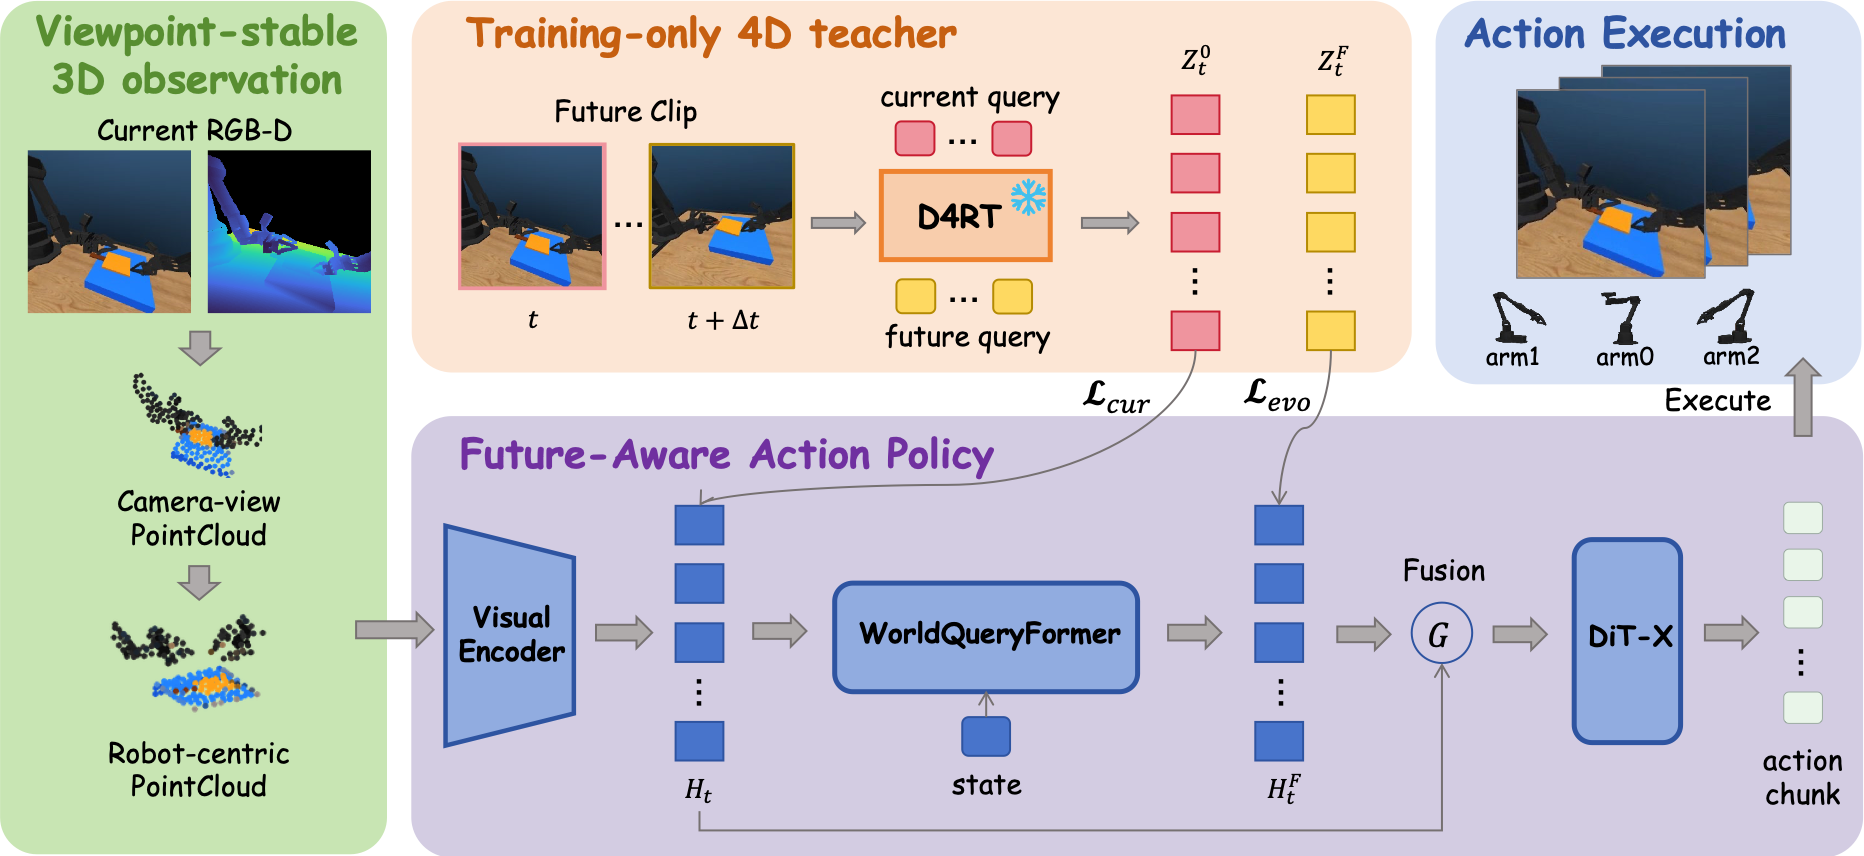
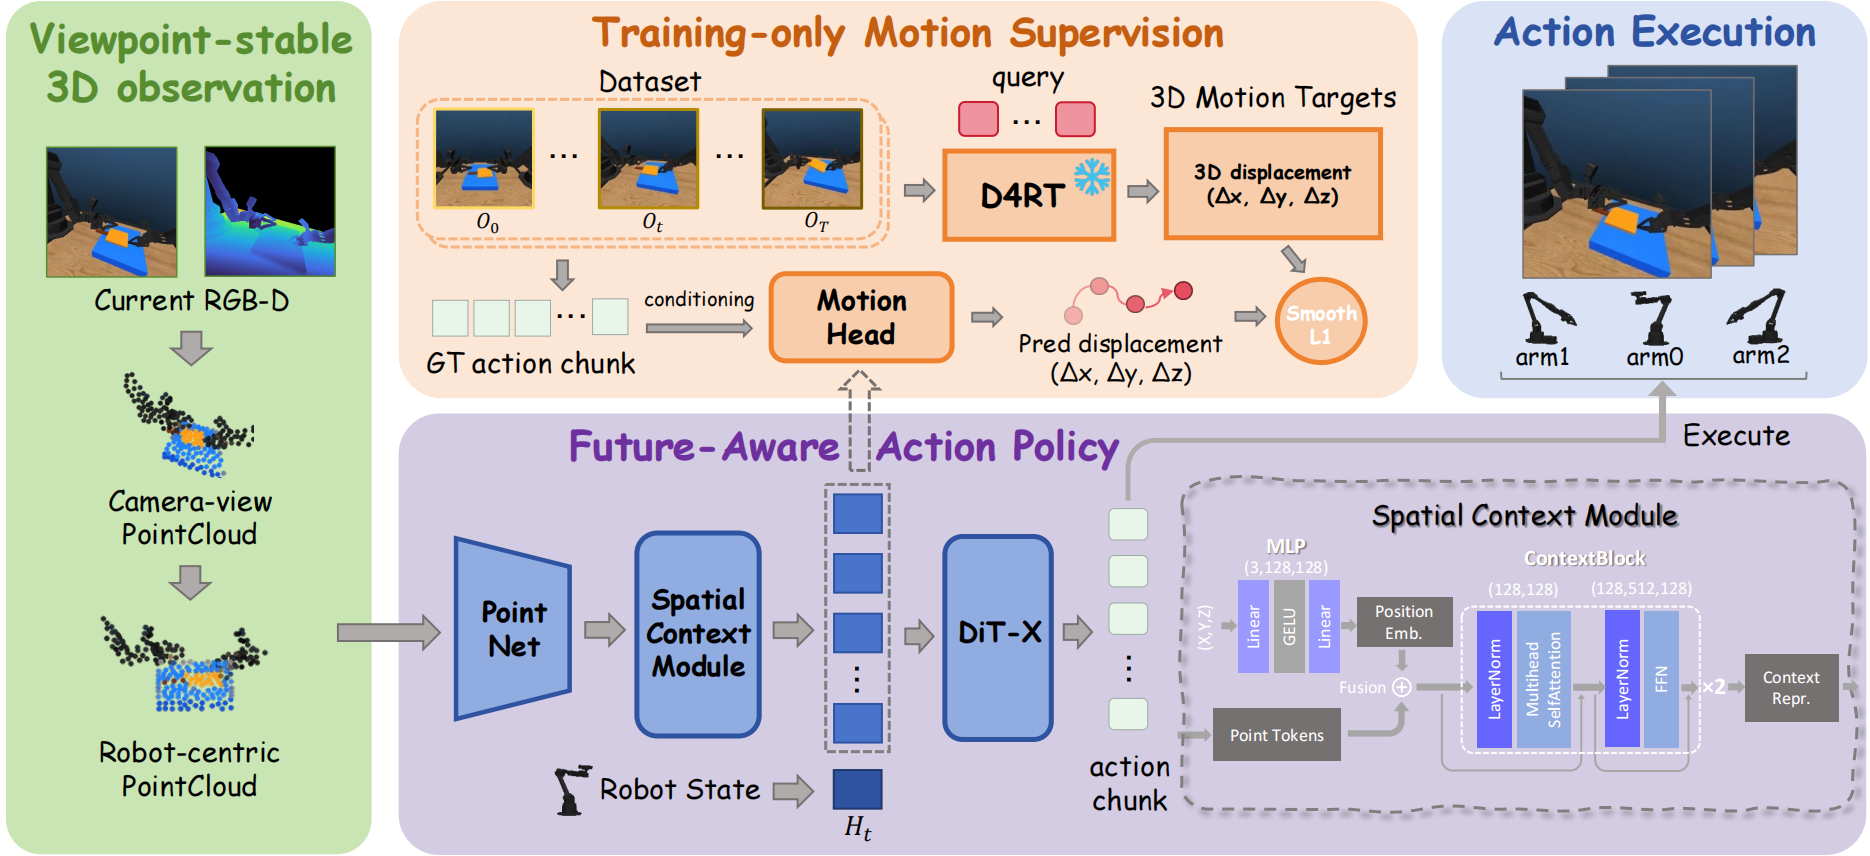
update website

diff --git a/index.html b/index.html
@@ -129,7 +129,7 @@
         <div class="container">
           <figure class="research-figure has-text-centered">
             <img src="static/images/intro.png" alt="Overview of physical active vision, the bimanual benchmark, and the A-FAR recovery policy" width="1835" height="497">
-            <figcaption><strong>Overview of our motivation, benchmark, and approach.</strong> <strong>(a)</strong> We study physical active vision as closed-loop recovery from external occlusion: using a single active camera as the sole visual sensor, the robot actively changes its viewpoint to recover task-relevant visibility and continue manipulation. <strong>(b)</strong> We introduce <strong>BAVO-Bench</strong>, a bimanual active-vision manipulation benchmark that systematically introduces controlled external occlusions to study viewpoint recovery, together with a VR teleoperation pipeline for collecting active-view demonstrations. <strong>(c)</strong> We present <strong>A-FAR</strong>, an active-vision policy that canonicalizes moving-view observations in robot-centric 3D and distills D4RT's 4D relational priors, enabling stable, future-aware control under active viewpoint changes.</figcaption>
+            <figcaption><strong>Overview of our motivation, benchmark, and approach.</strong> <strong>(a)</strong> We study physical active vision as closed-loop recovery from external occlusion: using a single active camera as the sole visual sensor, the robot actively changes its viewpoint to recover task-relevant visibility and continue manipulation. <strong>(b)</strong> We introduce <strong>BAVO-Bench</strong>, a bimanual active-vision manipulation benchmark that systematically introduces controlled external occlusions to study viewpoint recovery, together with a VR teleoperation pipeline for collecting active-view demonstrations. <strong>(c)</strong> We present <strong>A-FAR</strong>, an active-vision policy that combines viewpoint-stable robot-centric 3D observations with future 3D motion supervision, enabling adaptive viewpoint and manipulation control under occlusion.</figcaption>
           </figure>
         </div>
       </div>
@@ -141,7 +141,7 @@
           <div class="column is-four-fifths">
             <h2 class="title is-3 has-text-centered">Abstract</h2>
             <div class="content has-text-justified">
-              <p>Physical active vision allows robots to change their viewpoint when task-relevant observations become unreliable, yet existing manipulation benchmarks provide limited support for studying how policies recover from occlusion during execution. We introduce <strong>BAVO-Bench (Bimanual Active Vision under Occlusion)</strong>, a bimanual active-vision benchmark that systematically controls external visibility through Clean, Stage Occlusion, and Random-time Occlusion conditions, enabling evaluation of both manipulation performance and active visual recovery. Building on this setting, we present <strong>A-FAR (Active Future-Aware Recovery)</strong>, an active-vision policy for joint viewpoint and manipulation control. A-FAR represents moving-camera observations in a unified robot-centric 3D frame and distills relational structure together with its future evolution from a pretrained 4D model, providing the policy with future-aware geometric guidance without requiring future observations at deployment. Experiments across multiple bimanual manipulation tasks show that A-FAR improves robustness to both structured and temporally shifted occlusions while maintaining strong performance under clean observations.</p>
+              <p>Physical active vision allows robots to change their viewpoint when task-relevant observations become unreliable. However, existing manipulation benchmarks provide limited support for studying how policies recover from occlusion during execution. We introduce <strong>BAVO-Bench</strong>, a bimanual active-vision benchmark that systematically controls external visibility through Clean, Stage Occlusion, and Random-time Occlusion conditions. We further introduce <strong>Camera-attributable Visibility Gain (CVG)</strong>, a counterfactual metric that isolates visibility improvements attributable to camera motion rather than scene dynamics. Building on this setting, we present <strong>A-FAR</strong>, a policy for joint viewpoint and manipulation control. A-FAR combines robot-centric 3D observations with spatial context encoding to model geometric relationships consistently across viewpoints. It further leverages future 3D motion supervision from a pretrained 4D model to capture how task-relevant scene geometry evolves during manipulation. Experiments in simulation and the real world demonstrate improved robustness to structured and temporally unexpected occlusions, while maintaining strong performance under clean observations. Further analyses reveal that recovering visibility alone does not guarantee task success, highlighting the importance of translating recovered visual information into effective manipulation.</p>
             </div>
           </div>
         </div>
@@ -166,7 +166,7 @@
           <h2 class="title is-3 has-text-centered">A-FAR</h2>
           <figure class="research-figure has-text-centered">
             <img src="static/images/method.png" alt="A-FAR architecture with robot-centric 3D observations, a training-only 4D teacher, and a future-aware action policy" width="1864" height="856" loading="lazy" decoding="async">
-            <figcaption><strong>Overview of A-FAR.</strong> Current RGB-D observations are canonicalized into a robot-base point cloud and encoded as current point tokens <i>H</i><sub>t</sub>. A state-conditioned WorldQueryFormer predicts future relational tokens <i>H&#770;</i><sub>t</sub><sup>F</sup>, which are fused with the current representation for ManiFlow action generation. During training, a frozen D4RT teacher queries the same source points at current and future target times to construct relational targets that supervise the current structure (ℒ<sub>cur</sub>) and its temporal evolution (ℒ<sub>evo</sub>). The teacher branch and future frames are removed at deployment.</figcaption>
+            <figcaption><strong>Overview of A-FAR.</strong> RGB-D observations are transformed into robot-base point clouds and encoded by PointNet and a spatial context module. The resulting point tokens, combined with robot states, condition ManiFlow's DiT-X to generate manipulation and viewpoint actions. During training, D4RT provides future 3D point displacement targets, while a motion head predicts these displacements from contextualized point features and demonstrated future actions. The D4RT teacher and auxiliary motion head are removed at inference.</figcaption>
           </figure>
         </div>
       </div>
@@ -214,8 +214,8 @@
         <div class="container">
           <h2 class="title is-3 has-text-centered">Physical Deployment</h2>
           <figure class="research-figure has-text-centered">
-            <img src="static/images/deploy.png" alt="Four frames showing a physical robot manipulation sequence" width="1471" height="284" loading="lazy" decoding="async">
-            <figcaption><strong>Real-world deployment of A-FAR.</strong> Representative rollout under an externally introduced occlusion. From left to right, task-relevant visibility is disrupted during execution, the active camera changes viewpoint to recover the scene, and manipulation proceeds after the target region becomes observable again. The sequence demonstrates closed-loop active-view behavior on our physical manipulation platform.</figcaption>
+            <img src="static/images/real_world_experiment.png" alt="Real-world active-vision platform and Pepper Picking, Button Pressing, and Rack Cleaning under human-introduced occlusions" width="1916" height="684" loading="lazy" decoding="async">
+            <figcaption><strong>Real-world experimental platform and tasks.</strong> <strong>(a)</strong> Our active-vision platform consists of a 6-DoF observation arm equipped with a D435i camera and a 6-DoF Piper manipulation arm. <strong>(b)</strong> Representative execution sequences of Pepper Picking, Button Pressing, and Rack Cleaning under human-introduced occlusions, illustrating active viewpoint adjustment and manipulation.</figcaption>
           </figure>
         </div>
       </div>
@@ -228,13 +228,13 @@
           <p class="real-rollout-intro has-text-centered">Watch three physical robot tasks with or without an externally introduced occlusion.</p>
 
           <div class="real-task-grid" role="group" aria-label="Choose a physical robot task">
-            <button class="real-task-card" type="button" data-real-task="button_pressing" aria-pressed="false">
-              <img src="static/images/rollouts/real_button_pressing_occlusion.jpg" alt="Button pressing rollout preview" width="1280" height="720" loading="lazy">
-              <span>Button Pressing</span>
-            </button>
             <button class="real-task-card" type="button" data-real-task="pepper_picking" aria-pressed="false">
               <img src="static/images/rollouts/real_pepper_picking_occlusion.jpg?v=14s" alt="Pepper picking rollout preview" width="1280" height="720" loading="lazy">
               <span>Pepper Picking</span>
+            </button>
+            <button class="real-task-card" type="button" data-real-task="button_pressing" aria-pressed="false">
+              <img src="static/images/rollouts/real_button_pressing_occlusion.jpg" alt="Button pressing rollout preview" width="1280" height="720" loading="lazy">
+              <span>Button Pressing</span>
             </button>
             <button class="real-task-card" type="button" data-real-task="rack_cleaning" aria-pressed="true">
               <img src="static/images/rollouts/real_rack_cleaning_occlusion.jpg" alt="Rack cleaning rollout preview" width="1280" height="720" loading="lazy">
@@ -245,7 +245,7 @@
           <div class="real-condition-controls">
             <span class="rollout-control-label">Rollout</span>
             <div class="rollout-button-row" role="group" aria-label="Choose a physical robot rollout">
-              <button class="rollout-button" type="button" data-real-condition="occlusion" aria-pressed="true">Occlusion recovery</button>
+              <button class="rollout-button" type="button" data-real-condition="occlusion" aria-pressed="true">Stage Occlusion</button>
               <button class="rollout-button" type="button" data-real-condition="clean" aria-pressed="false">Clean</button>
             </div>
           </div>
